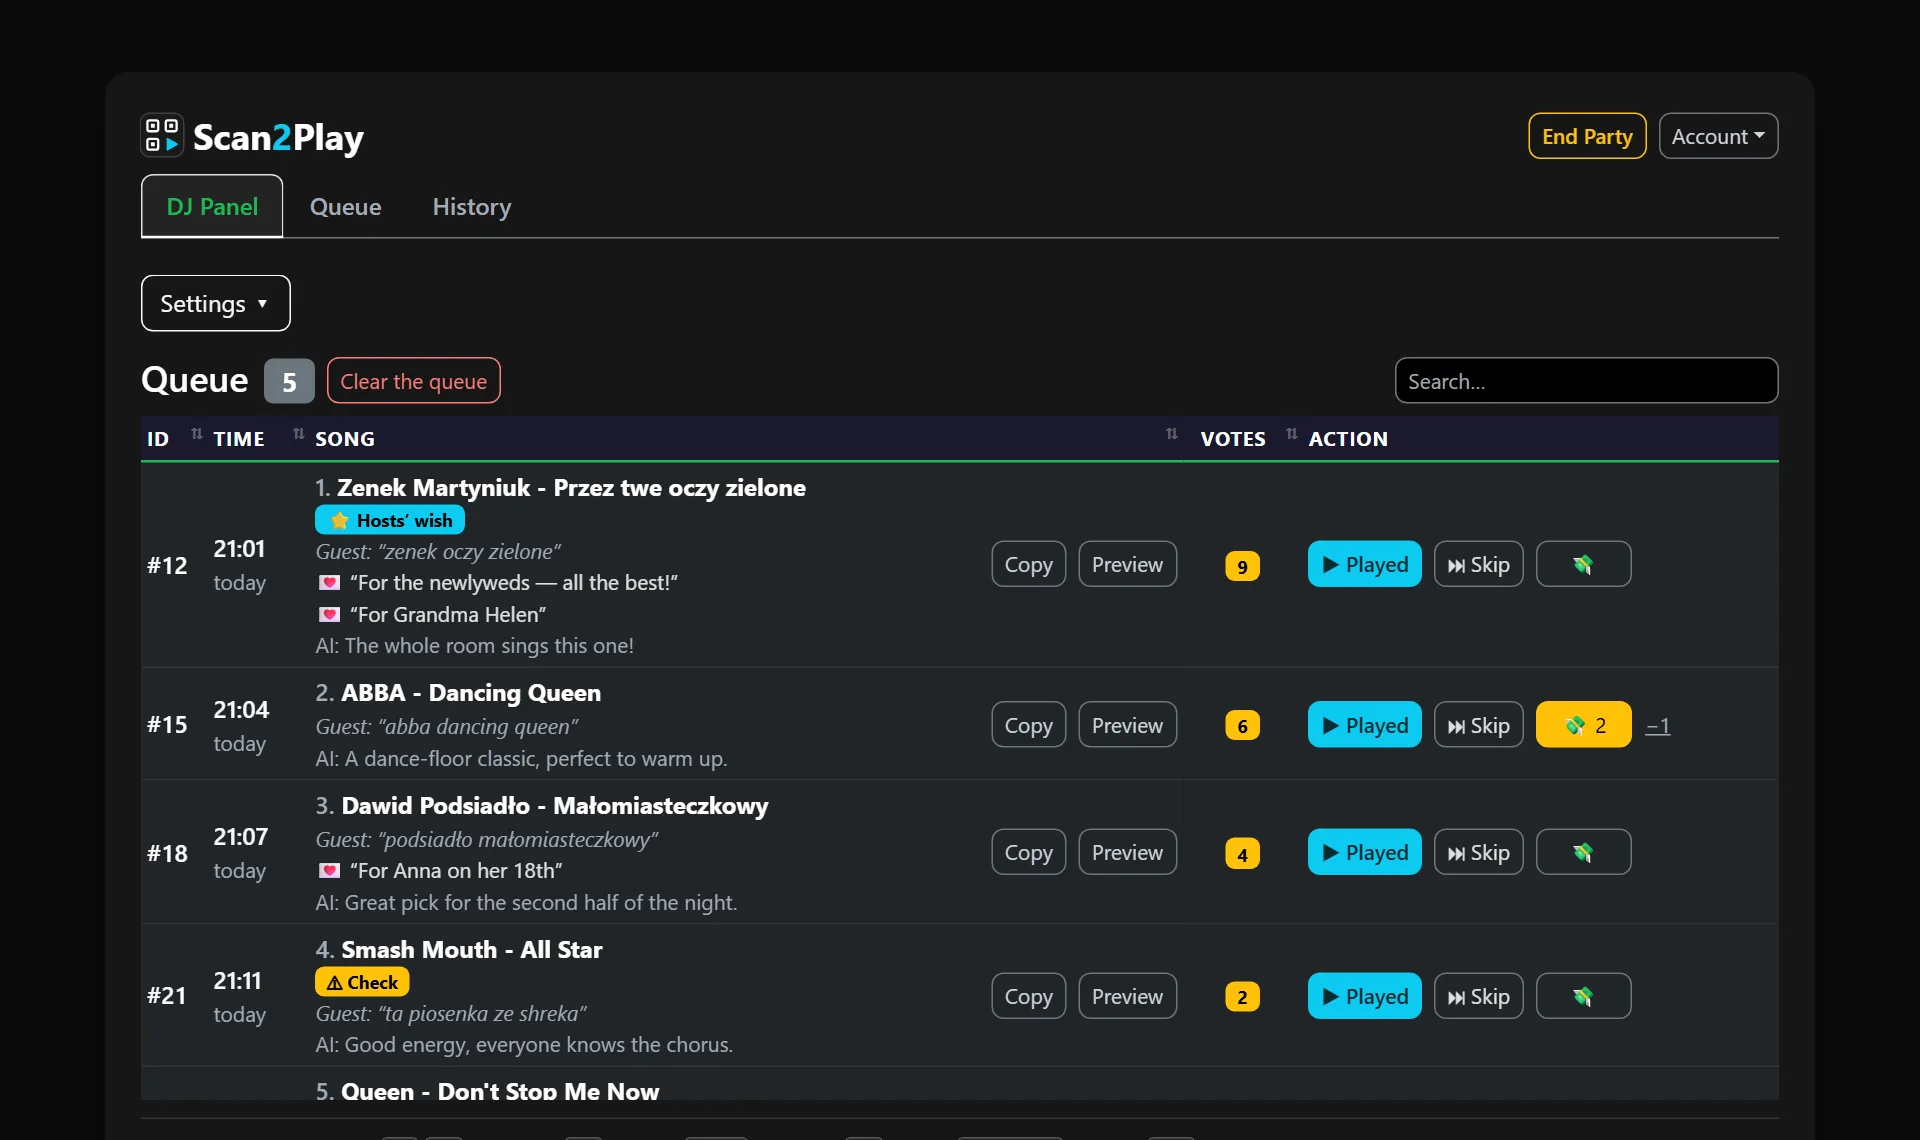
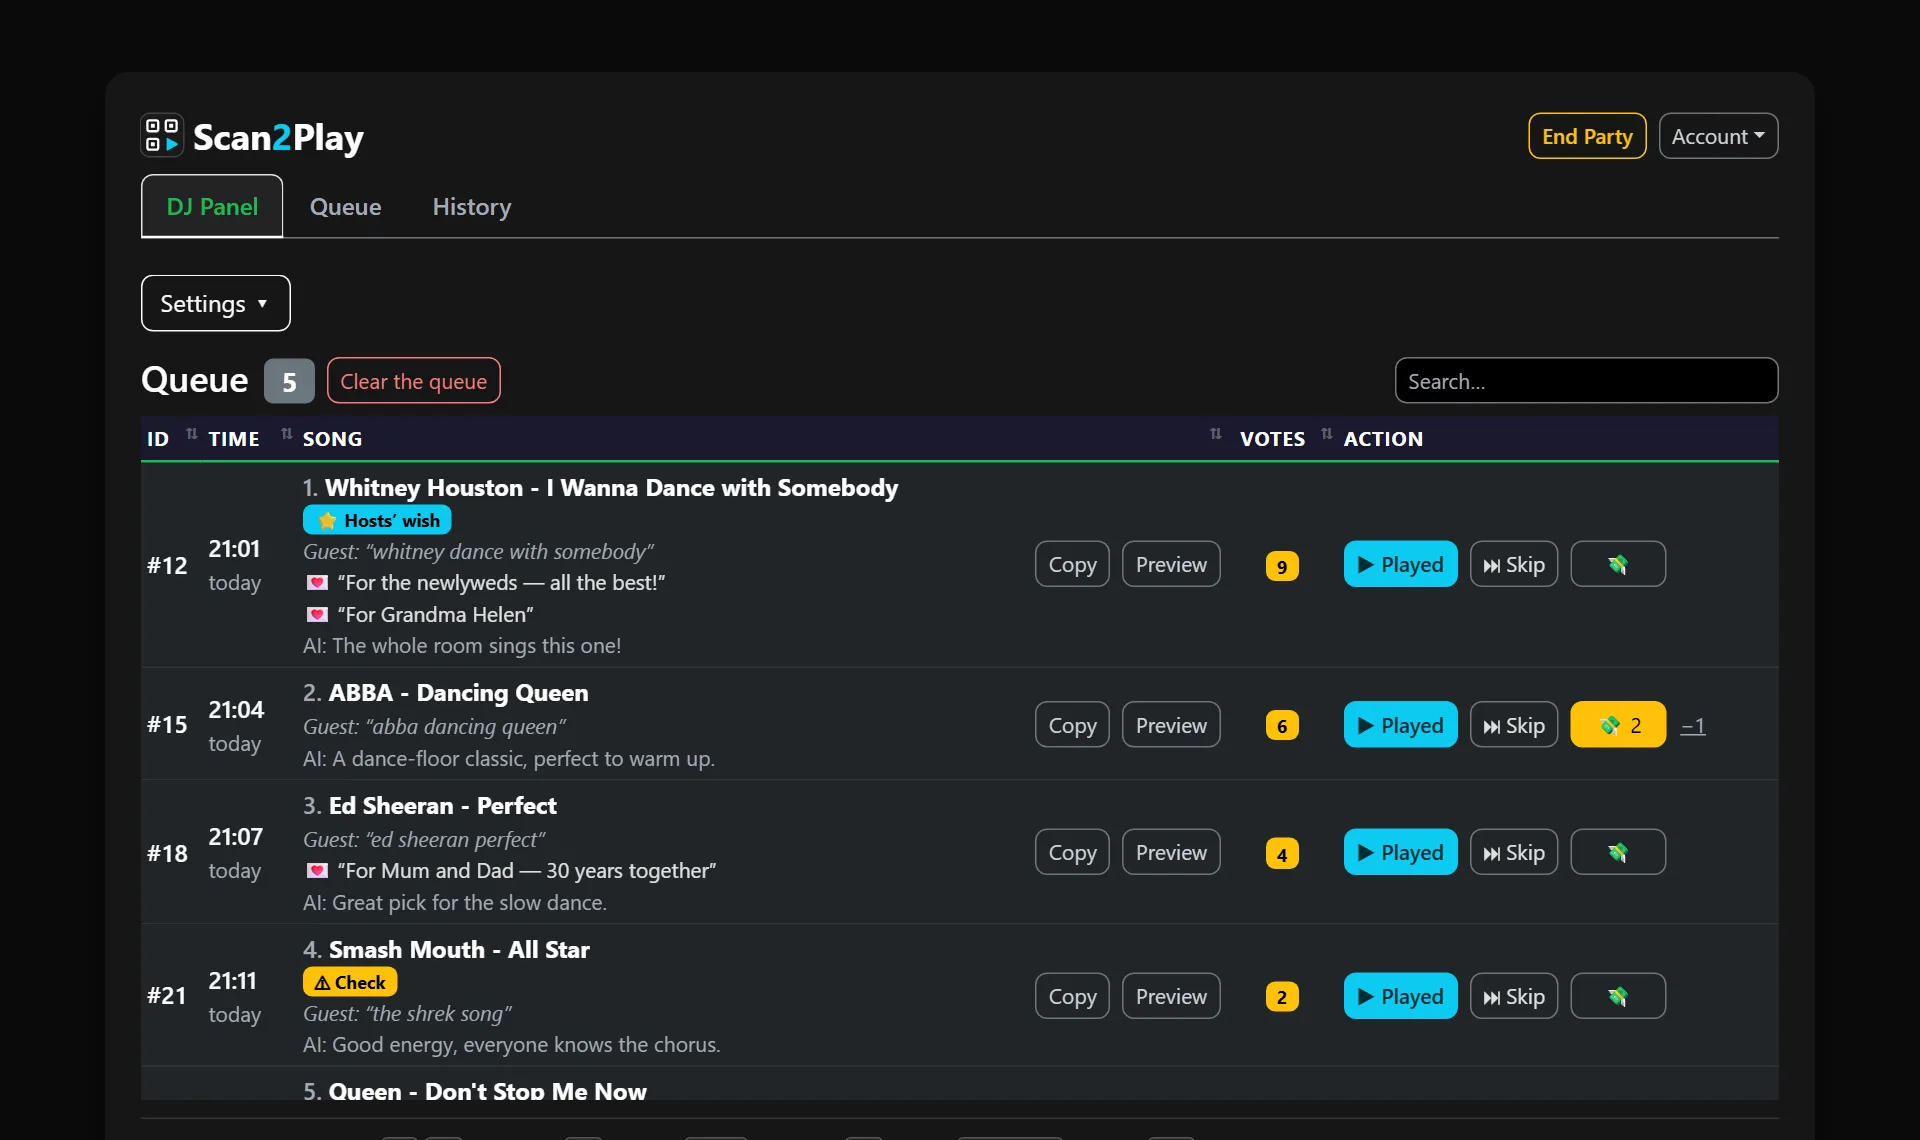
Landing page: the English pictures with songs known everywhere
The owner: Zenek Martyniuk, sanah and Podsiadło are known in Poland only.
The English pictures now show Whitney Houston, ABBA, Ed Sheeran, Smash
Mouth, Queen and Dua Lipa, DJ Alex, and the guests' words and dedications
in English ("the shrek song" keeps the "Check": "that song from shrek"
shared "tha" with "smashmouthallstar"). The Polish pictures unchanged.

diff --git a/src/test/java/com/scan2play/template/DashboardPageRenderTest.java b/src/test/java/com/scan2play/template/DashboardPageRenderTest.java
@@ -760,24 +760,29 @@ class DashboardPageRenderTest {
     /**
      * The DJ's panel of a made-up party, for the pictures of the landing page (src/test/browser/screenshots.py: a laptop's screen,
      * {@code static/images/landing/dashboard-<lang>.webp}): the queue with the guests' words, the AI's comments, the votes, a song on the
-     * hosts' list (⭐), one to check (⚠) and tips. No real person in it.
+     * hosts' list (⭐), one to check (⚠) and tips. No real person in it. The English picture has songs known everywhere and the guests'
+     * words in English (the owner, 2026-10-18: Zenek, sanah and Podsiadło are known in Poland only).
      */
     @Test
     void theLandingPagesPicture_ofTheDashboard() throws IOException {
         for (Locale locale : List.of(PL, Locale.ENGLISH)) {
             boolean pl = locale == PL;
             PartySettingsEntity party = party();
-            party.setDjName("DJ Kuba");
+            party.setDjName(pl ? "DJ Kuba" : "DJ Alex");
             party.setGlobalVibe(VibeType.WEDDING_CLASSICS);
-            party.setHostWanted("Przez twe oczy zielone");
+            party.setHostWanted(pl ? "Przez twe oczy zielone" : "I Wanna Dance with Somebody");
             List<SongRequestEntity> queue = List.of(
-                    demo(21, 12, "Zenek Martyniuk - Przez twe oczy zielone", "zenek oczy zielone", 9, 0, 1,
-                            pl ? "Sala już śpiewa — to musi polecieć!" : "The whole room sings this one!"),
+                    pl ? demo(21, 12, "Zenek Martyniuk - Przez twe oczy zielone", "zenek oczy zielone", 9, 0, 1,
+                            "Sala już śpiewa — to musi polecieć!")
+                       : demo(21, 12, "Whitney Houston - I Wanna Dance with Somebody", "whitney dance with somebody", 9, 0, 1,
+                            "The whole room sings this one!"),
                     demo(22, 15, "ABBA - Dancing Queen", "abba dancing queen", 6, 2, 4,
                             pl ? "Klasyk parkietu, idealny na rozkręcenie." : "A dance-floor classic, perfect to warm up."),
-                    demo(23, 18, "Dawid Podsiadło - Małomiasteczkowy", "podsiadło małomiasteczkowy", 4, 0, 7,
-                            pl ? "Świetny wybór na drugą część wieczoru." : "Great pick for the second half of the night."),
-                    demo(24, 21, "Smash Mouth - All Star", "ta piosenka ze shreka", 2, 0, 11,
+                    pl ? demo(23, 18, "Dawid Podsiadło - Małomiasteczkowy", "podsiadło małomiasteczkowy", 4, 0, 7,
+                            "Świetny wybór na drugą część wieczoru.")
+                       : demo(23, 18, "Ed Sheeran - Perfect", "ed sheeran perfect", 4, 0, 7,
+                            "Great pick for the slow dance."),
+                    demo(24, 21, "Smash Mouth - All Star", pl ? "ta piosenka ze shreka" : "the shrek song", 2, 0, 11,
                             pl ? "Dobra energia, wszyscy znają refren." : "Good energy, everyone knows the chorus."),
                     demo(25, 23, "Queen - Don't Stop Me Now", "queen dont stop me now", 3, 1, 14,
                             pl ? "Petarda na koniec seta!" : "A banger to end the set!"));
@@ -787,16 +792,21 @@ class DashboardPageRenderTest {
             dedications = Map.of(
                     21L, List.of(dedication(21, pl ? "Dla Młodej Pary — wszystkiego najlepszego!" : "For the newlyweds — all the best!"),
                             dedication(21, pl ? "Dla babci Heli" : "For Grandma Helen")),
-                    23L, List.of(dedication(23, pl ? "Dla Ani na 18-stkę" : "For Anna on her 18th")));
+                    23L, List.of(dedication(23, pl ? "Dla Ani na 18-stkę" : "For Mum and Dad — 30 years together")));
             String html;
             try {
                 html = renderDashboard(party, queue, locale);
             } finally {
                 dedications = Map.of();
             }
-            assertThat(html).contains("DJ Kuba", "s2p-host-wanted", "s2p-check-song",
-                    pl ? "Dla babci Heli" : "For Grandma Helen", pl ? "Dla Ani na 18-stkę" : "For Anna on her 18th")
+            write("landing-demo-dashboard-" + locale.getLanguage() + ".html", html);
+            assertThat(html).contains(pl ? "DJ Kuba" : "DJ Alex", "s2p-host-wanted", "s2p-check-song",
+                    pl ? "Dla babci Heli" : "For Grandma Helen", pl ? "Dla Ani na 18-stkę" : "For Mum and Dad — 30 years together")
                     .doesNotContain("??", pl ? ">wczoraj<" : ">yesterday<");
+            if (!pl) {
+                assertThat(html).as("songs known everywhere, the guests' words in English")
+                        .doesNotContain("Zenek", "Podsiadło", "sanah", "zielone", "shreka");
+            }
             write("landing-demo-dashboard-" + locale.getLanguage() + ".html", html);
         }
     }

diff --git a/src/test/java/com/scan2play/template/GuestPageRenderTest.java b/src/test/java/com/scan2play/template/GuestPageRenderTest.java
@@ -662,14 +662,22 @@ class GuestPageRenderTest {
     @Test
     void theLandingPagesPicture_ofTheGuestsPage() {
         for (Locale locale : List.of(PL, Locale.ENGLISH)) {
+            // the English picture: songs known everywhere (the owner, 2026-10-18), as on the panel's picture
+            boolean pl = locale == PL;
+            String dj = pl ? "DJ Kuba" : "DJ Alex";
+            String mine = pl ? "sanah - Szampan" : "Dua Lipa - Levitating";
             List<SongRequestEntity> songs = List.of(
-                    demo(1, 12, "Zenek Martyniuk - Przez twe oczy zielone", 9), demo(2, 15, "ABBA - Dancing Queen", 6),
-                    demo(3, 18, "Dawid Podsiadło - Małomiasteczkowy", 4), demo(4, 21, "Queen - Don't Stop Me Now", 3),
-                    demo(5, 23, "sanah - Szampan", 1));
-            String html = render(locale, Map.of("djName", "DJ Kuba", "globalVibe", VibeType.WEDDING_CLASSICS,
-                    "guestQueue", new GuestQueue(songs, List.of(), Set.of(5L), "sanah - Szampan", 1, Set.of(2L))));
+                    demo(1, 12, pl ? "Zenek Martyniuk - Przez twe oczy zielone" : "Whitney Houston - I Wanna Dance with Somebody", 9),
+                    demo(2, 15, "ABBA - Dancing Queen", 6),
+                    demo(3, 18, pl ? "Dawid Podsiadło - Małomiasteczkowy" : "Ed Sheeran - Perfect", 4),
+                    demo(4, 21, "Queen - Don't Stop Me Now", 3), demo(5, 23, mine, 1));
+            String html = render(locale, Map.of("djName", dj, "globalVibe", VibeType.WEDDING_CLASSICS,
+                    "guestQueue", new GuestQueue(songs, List.of(), Set.of(5L), mine, 1, Set.of(2L))));
             // the dedication (V38) folded under the field: unfolded, it pushed the guests' requests out of the phone's screen
-            assertThat(html).contains("DJ Kuba", "sanah - Szampan", "id=\"dedicationBox\"").doesNotContain("??");
+            assertThat(html).contains(dj, mine, "id=\"dedicationBox\"").doesNotContain("??");
+            if (!pl) {
+                assertThat(html).doesNotContain("Zenek", "Podsiadło", "sanah");
+            }
             writeForTheBrowserTests("landing-demo-guest-" + locale.getLanguage() + ".html", html);
         }
     }

diff --git a/PROJECT_CONTEXT.md b/PROJECT_CONTEXT.md
@@ -310,7 +310,7 @@ sees under the form), `PlayHistoryService.Page`.
 
 Landing page `/` (2026-10-17, an idea from Rekwest — its features, never its look or texts): the title, "Zbieraj prośby gości" and "Jak
 działa Scan2Play", beside them the DJ's panel in a laptop and the guest's page in a phone — real pictures of the app, of a made-up
-party, in the page's language (`static/images/landing/{dashboard,guest}-{pl,en}.webp`, written by `src/test/browser/screenshots.py`
+party, in the page's language — the English ones with songs known everywhere and DJ Alex (2026-10-18), the Polish ones with DJ Kuba — (`static/images/landing/{dashboard,guest}-{pl,en}.webp`, written by `src/test/browser/screenshots.py`
 from the pages `GuestPageRenderTest` / `DashboardPageRenderTest` render, `theLandingPagesPicture_…`; run it again after a change of
 the look; the panel shows the guests' dedications, the phone the folded "💌 Dodaj dedykację") —, then three steps, what one gets
 (six cards: the vibe — with no repeats —, the guest's words, the votes, the dedications, the hosts' list, the phone and the staff; no
